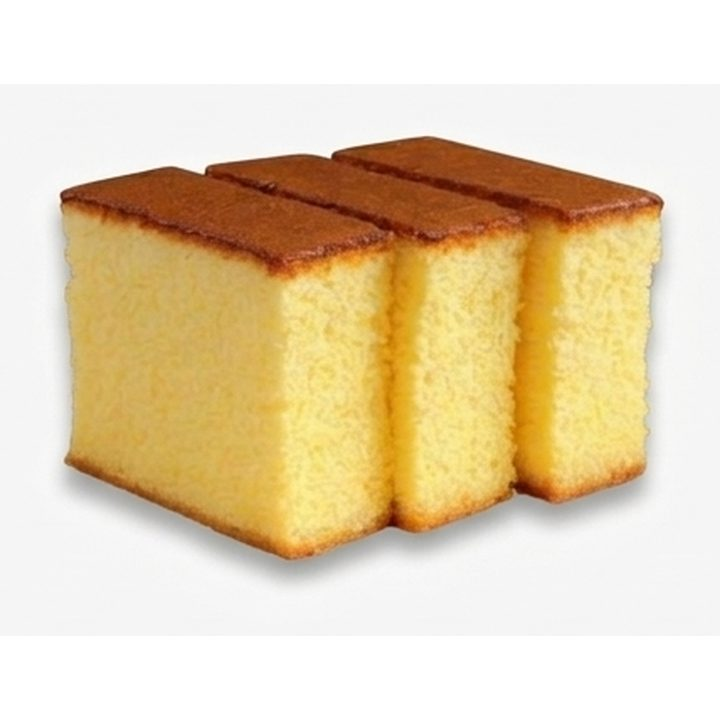
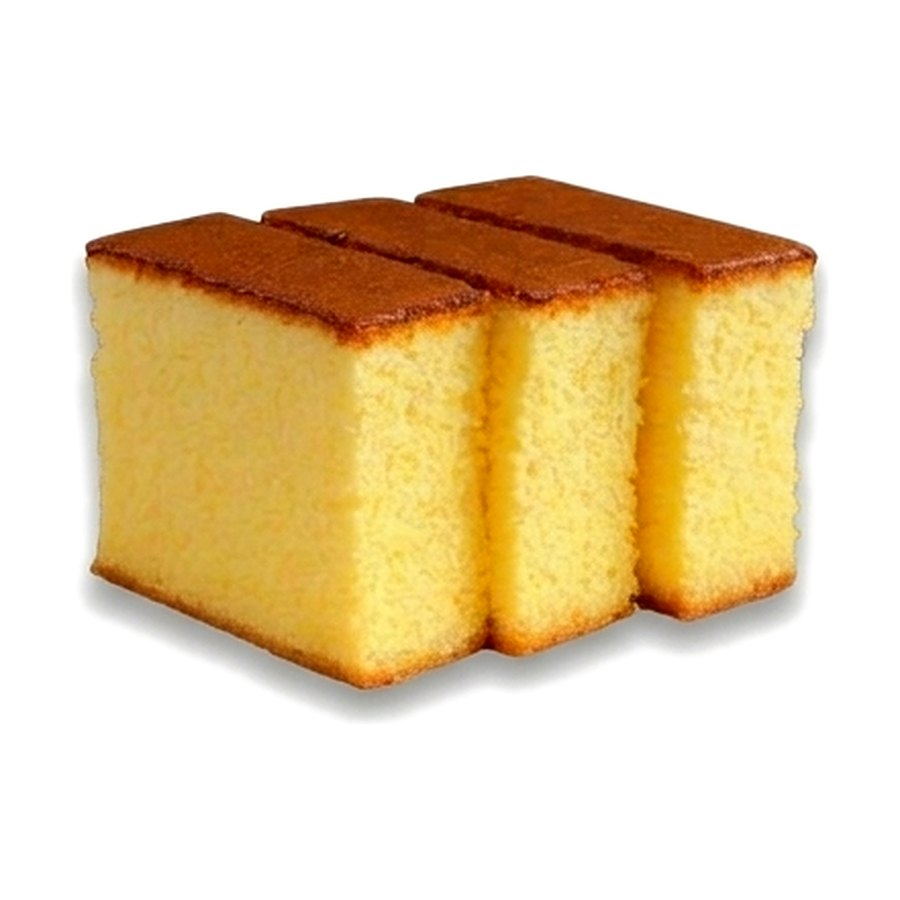
Upgrade product photos
Clean white backgrounds, consistent framing, larger (900px) and sharper
images with a little extra contrast and colour.

Claude-Session: https://claude.ai/code/session_0168rdHaFFg2W2P8uKSAf8HF

diff --git a/haju-bliss/index.html b/haju-bliss/index.html
@@ -588,15 +588,15 @@ footer .logo small { color: inherit; opacity: .6; }
   /* ---------- Products: edit this list to change the menu ---------- */
   // unit: what the price buys. best: best-selling rank (1 = top). choc: matches the Chocolate filter.
   const PRODUCTS = [
-    { id: 1,  name: "Lava Brownie",              cat: "Brownies", price: 350,  unit: "each",     best: 1,  choc: true,  img: "images/lava-brownie.jpg",             desc: "A rich chocolate brownie with a molten centre that flows when you cut in. Best enjoyed warm." },
-    { id: 2,  name: "Chocolate Loaded Cookies",  cat: "Cookies",  price: 250,  unit: "each",     best: 2,  choc: true,  img: "images/chocolate-loaded-cookies.jpg", desc: "Thick, chewy cookies packed with chocolate chunks and a gooey chocolate middle." },
-    { id: 3,  name: "Fudge Brownie",             cat: "Brownies", price: 200,  unit: "each",     best: 3,  choc: true,  img: "images/fudge-brownie.jpg",            desc: "Dense, fudgy squares with a crackly top and pockets of melted chocolate." },
-    { id: 4,  name: "Cookies",                   cat: "Cookies",  price: 100,  unit: "each",     best: 4,  choc: true,  img: "images/cookies.jpg",                  desc: "Classic golden chocolate chip cookies, crisp at the edge and soft in the middle." },
-    { id: 5,  name: "Chocolate Cake",            cat: "Cakes",    price: 3300, unit: "1 kg"    , best: 5,  choc: true,  img: "images/chocolate-cake.jpg",           desc: "A moist, deep chocolate sponge for birthdays, tea time and everything in between." },
-    { id: 6,  name: "Butter Cake with Cashews",  cat: "Cakes",    price: 2800, unit: "1 kg"    , best: 6,  choc: false, img: "images/butter-cake-cashew.jpg",       desc: "Our soft butter cake topped with roasted cashew nuts." },
-    { id: 7,  name: "Butter Cake",               cat: "Cakes",    price: 2200, unit: "1 kg",     best: 7,  choc: false, img: "images/butter-cake.jpg",              desc: "Golden, buttery and light. The Sri Lankan tea-time classic." },
-    { id: 8,  name: "Coffee Cake",               cat: "Cakes",    price: 2800, unit: "1 kg"    , best: 8,  choc: false, img: "images/coffee-cake.jpg?v=2",              desc: "A tender cake flavoured with real coffee. Lovely with a cup of tea." },
-    { id: 10, name: "Yanakatha",                 cat: "Sweets",   price: 50,   unit: "each",     best: 10, choc: false, img: "images/yanakatha.jpg",                desc: "A traditional sweet, freshly made and sugar-dusted." }
+    { id: 1,  name: "Lava Brownie",              cat: "Brownies", price: 350,  unit: "each",     best: 1,  choc: true,  img: "images/lava-brownie.jpg?v=3",             desc: "A rich chocolate brownie with a molten centre that flows when you cut in. Best enjoyed warm." },
+    { id: 2,  name: "Chocolate Loaded Cookies",  cat: "Cookies",  price: 250,  unit: "each",     best: 2,  choc: true,  img: "images/chocolate-loaded-cookies.jpg?v=3", desc: "Thick, chewy cookies packed with chocolate chunks and a gooey chocolate middle." },
+    { id: 3,  name: "Fudge Brownie",             cat: "Brownies", price: 200,  unit: "each",     best: 3,  choc: true,  img: "images/fudge-brownie.jpg?v=3",            desc: "Dense, fudgy squares with a crackly top and pockets of melted chocolate." },
+    { id: 4,  name: "Cookies",                   cat: "Cookies",  price: 100,  unit: "each",     best: 4,  choc: true,  img: "images/cookies.jpg?v=3",                  desc: "Classic golden chocolate chip cookies, crisp at the edge and soft in the middle." },
+    { id: 5,  name: "Chocolate Cake",            cat: "Cakes",    price: 3300, unit: "1 kg"    , best: 5,  choc: true,  img: "images/chocolate-cake.jpg?v=3",           desc: "A moist, deep chocolate sponge for birthdays, tea time and everything in between." },
+    { id: 6,  name: "Butter Cake with Cashews",  cat: "Cakes",    price: 2800, unit: "1 kg"    , best: 6,  choc: false, img: "images/butter-cake-cashew.jpg?v=3",       desc: "Our soft butter cake topped with roasted cashew nuts." },
+    { id: 7,  name: "Butter Cake",               cat: "Cakes",    price: 2200, unit: "1 kg",     best: 7,  choc: false, img: "images/butter-cake.jpg?v=3",              desc: "Golden, buttery and light. The Sri Lankan tea-time classic." },
+    { id: 8,  name: "Coffee Cake",               cat: "Cakes",    price: 2800, unit: "1 kg"    , best: 8,  choc: false, img: "images/coffee-cake.jpg?v=3",              desc: "A tender cake flavoured with real coffee. Lovely with a cup of tea." },
+    { id: 10, name: "Yanakatha",                 cat: "Sweets",   price: 50,   unit: "each",     best: 10, choc: false, img: "images/yanakatha.jpg?v=3",                desc: "A traditional sweet, freshly made and sugar-dusted." }
   ];
   const BEST_COUNT = 2; // how many top items get the "Best seller" badge and the spotlight
   const CATS = ["Brownies", "Cookies", "Cakes", "Sweets"];
